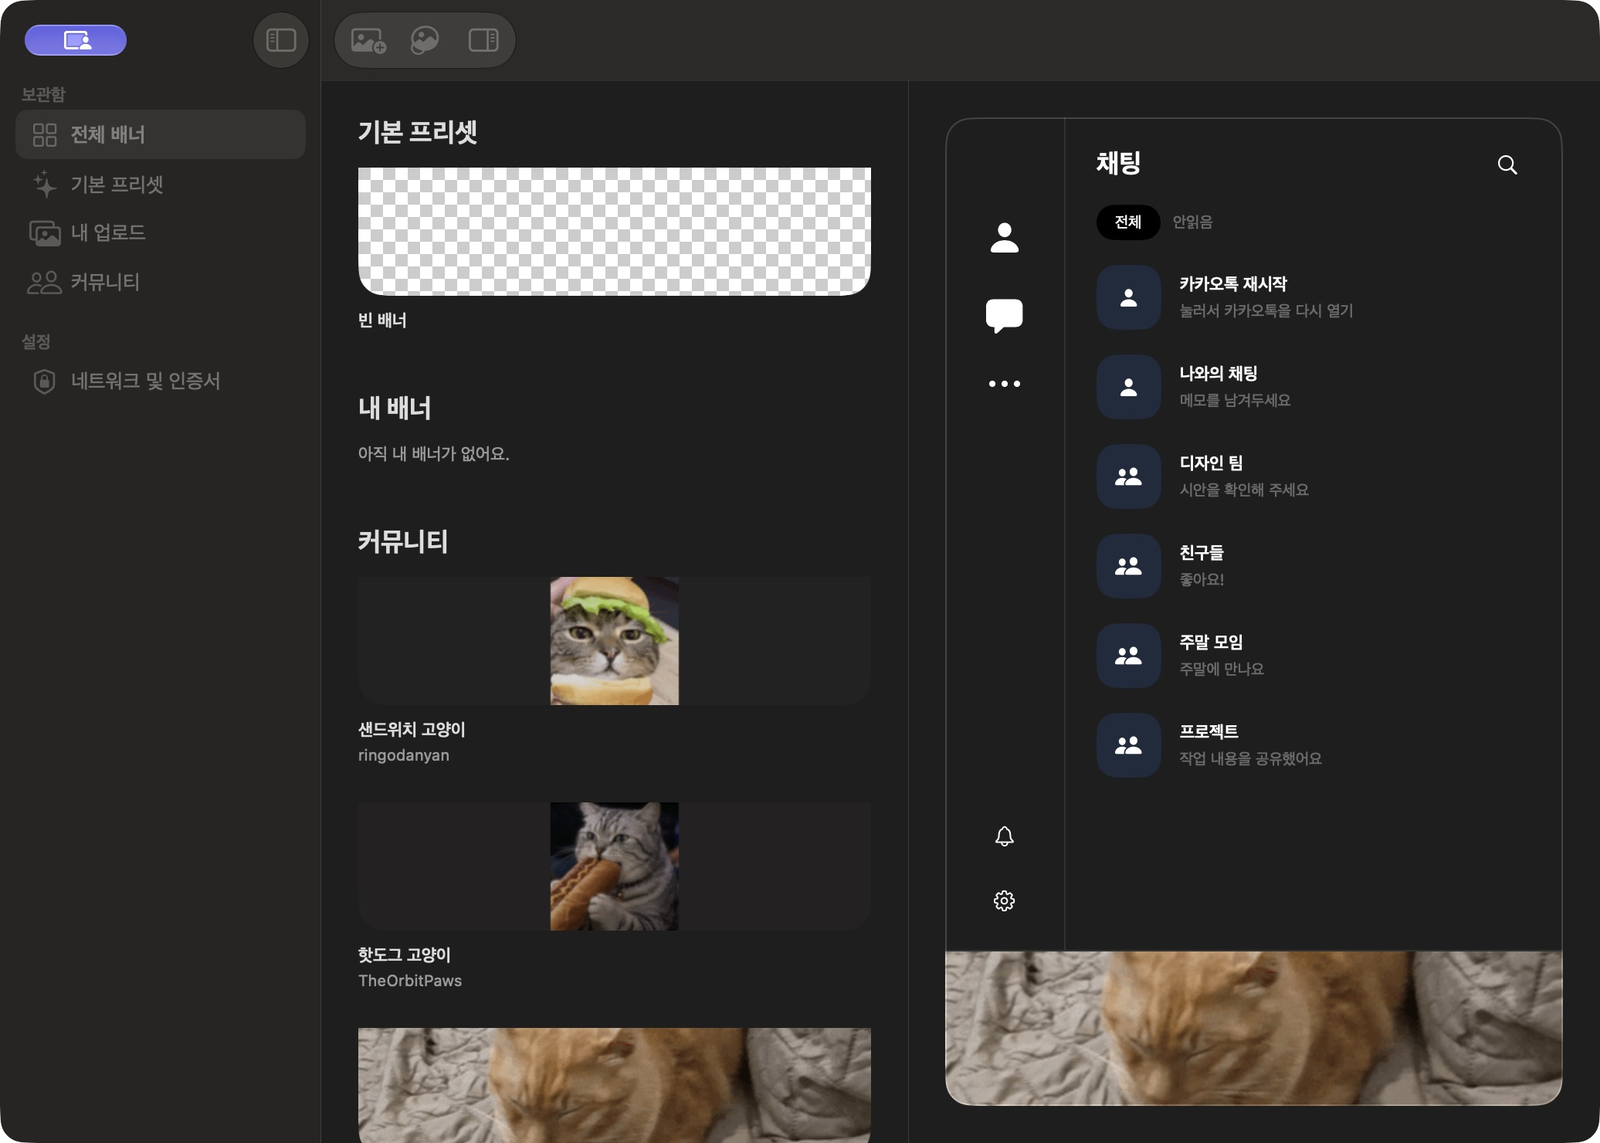
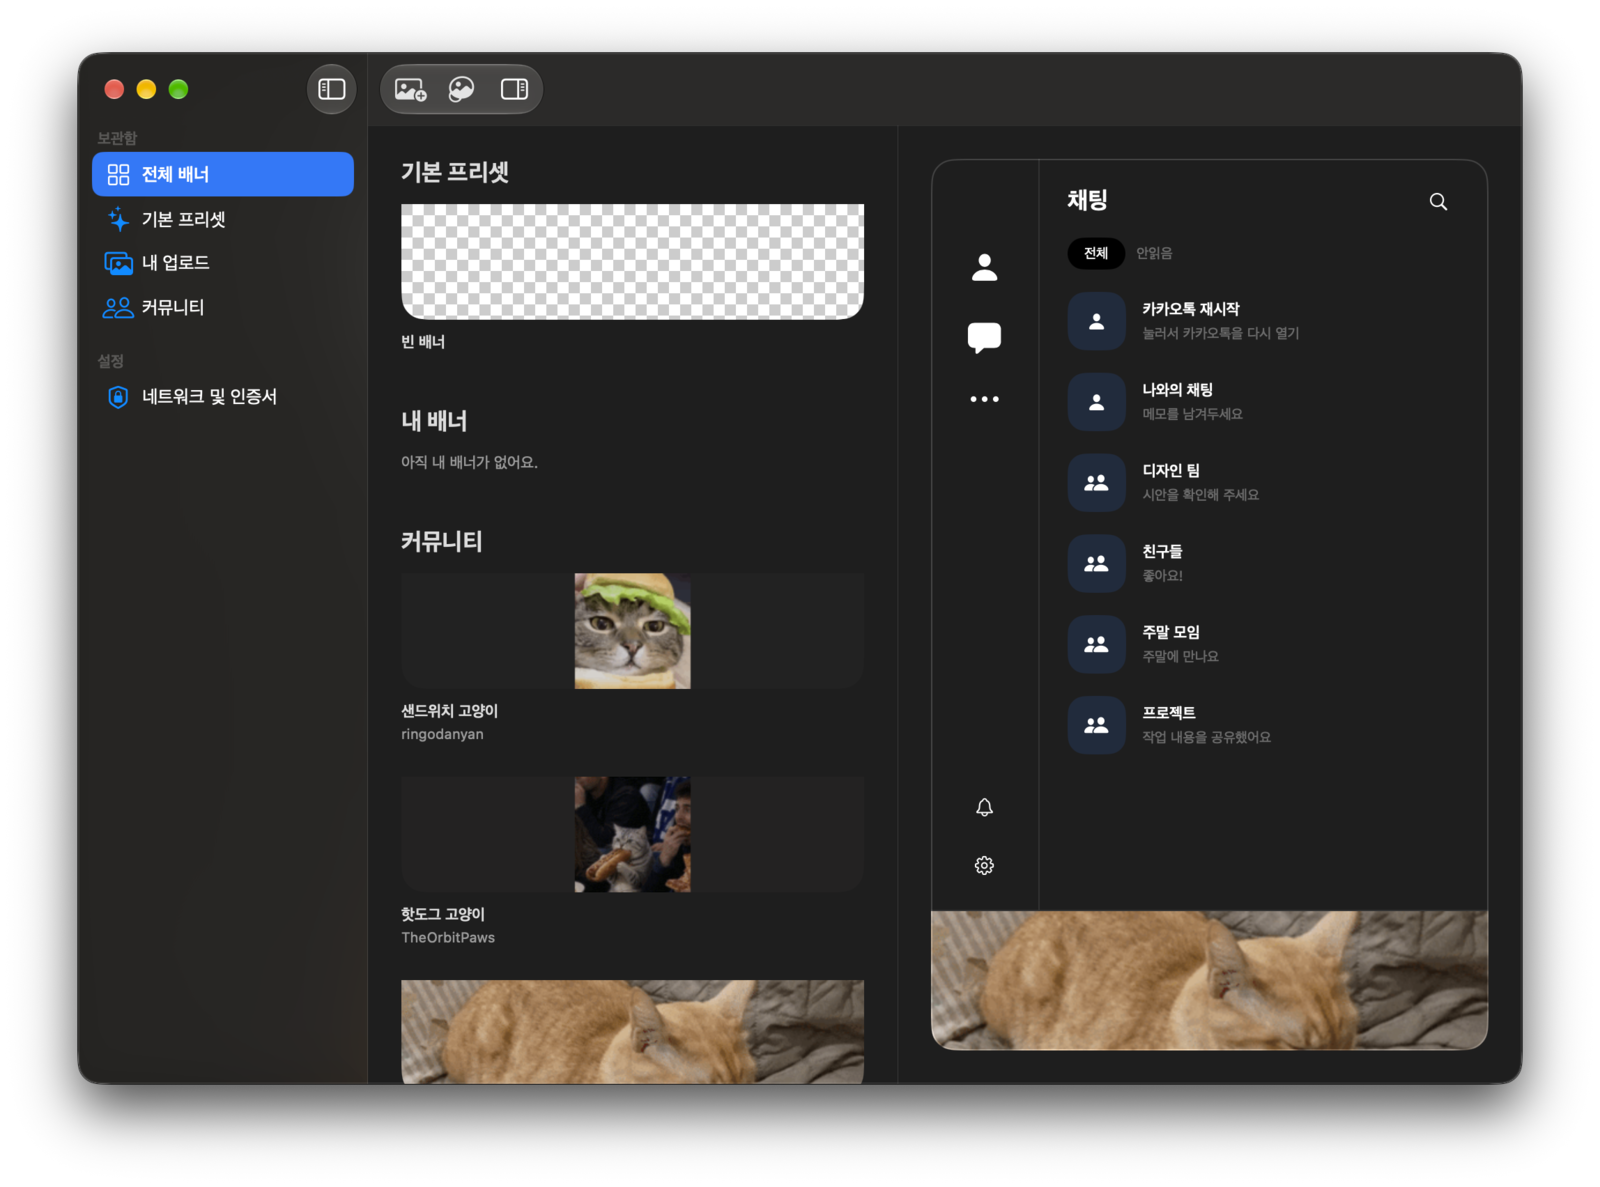
Use supplied studio and full KakaoTalk screenshots

diff --git a/README.md b/README.md
@@ -8,7 +8,7 @@ Mac용 카카오톡 채팅 목록 하단에 원하는 배너를 표시하는 비
 
 ![카카오톡 배너 스튜디오의 갤러리와 배너 미리보기](docs/screenshots/studio.png)
 
-실제 카카오톡에 적용된 하단 배너입니다. 개인정보 보호를 위해 창의 하단만 담았습니다.
+실제 카카오톡 창 전체에 배너가 적용된 모습입니다. 프로필 사진과 이름은 가렸습니다.
 
 <img src="docs/screenshots/kakaotalk-banner.png" alt="실제 카카오톡 하단에 적용된 배너" width="400">
 
